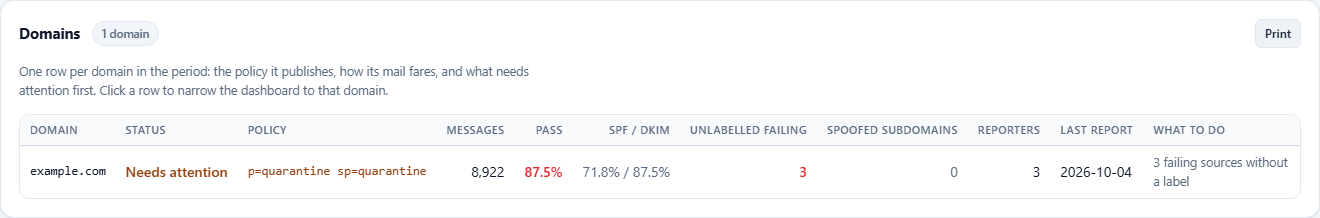
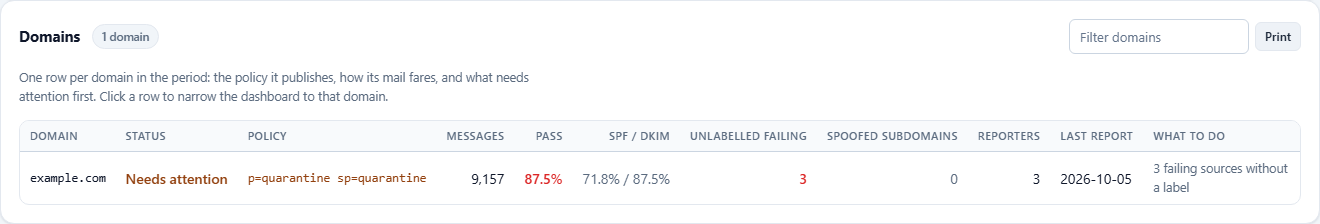
Add a search box to the Domains, Subdomains, Sources, Known senders, Reporting services and Reports panels
Each of these panels gets a search box in its heading. For the tables
whose rows are all in the page (domains, subdomains, sources, known
senders, reporters) it hides the rows that lack any of the typed words,
shows how many of the loaded rows match, re-applies itself after a
re-render and clears on Escape. Reports is paginated on the server, so
its box becomes a second search term (q2) that the filter ANDs with the
dashboard-wide one, matching reporter, domain, report id and the records'
addresses and hosts. Screenshots regenerated.

diff --git a/public/index.html b/public/index.html
@@ -354,6 +354,7 @@
         <h2>Domains</h2>
         <span id="scorecard-count" class="badge">0 domains</span>
         <div class="head-toggle">
+          <input type="search" id="scorecard-filter" class="panel-filter small" placeholder="Filter domains" autocomplete="off" spellcheck="false" aria-label="Filter domains" />
           <button type="button" class="secondary small print-btn" data-print="scorecard-panel" title="Print this panel, or save it as a PDF">Print</button>
         </div>
       </div>
@@ -428,6 +429,9 @@
       <div class="panel-head">
         <h2>Domains and subdomains</h2>
         <span id="subdomains-count" class="badge">0 domains</span>
+        <div class="head-toggle">
+          <input type="search" id="subdomains-filter" class="panel-filter small" placeholder="Filter domains" autocomplete="off" spellcheck="false" aria-label="Filter domains" />
+        </div>
       </div>
       <p class="bulk-hint">
         Mail grouped by the domain actually in the From header, not just the domain the report was
@@ -442,6 +446,7 @@
       <div class="panel-head">
         <h2>Sending sources</h2>
         <span id="ips-count" class="badge">0 sources</span>
+        <input type="search" id="ips-filter" class="panel-filter small" placeholder="Filter: IP, host, network, label, verdict" autocomplete="off" spellcheck="false" aria-label="Filter: IP, host, network, label, verdict" />
         <label class="check-inline head-toggle">
           <input type="checkbox" id="failing-only" checked /> Only sources with failures
         </label>
@@ -468,7 +473,10 @@
       <div class="panel-head">
         <h2>Known senders</h2>
         <span id="senders-count" class="badge">0 entries</span>
-        <button id="import-spf-btn" type="button" class="secondary small head-toggle writer-only">Import from SPF</button>
+        <div class="head-toggle">
+          <input type="search" id="senders-filter" class="panel-filter small" placeholder="Filter: pattern, label, kind" autocomplete="off" spellcheck="false" aria-label="Filter: pattern, label, kind" />
+          <button id="import-spf-btn" type="button" class="secondary small writer-only">Import from SPF</button>
+        </div>
       </div>
       <p class="bulk-hint">
         Tell the analyzer which sources are yours (your Microsoft 365 tenant, your on-premises
@@ -517,6 +525,9 @@
       <div class="panel-head">
         <h2>Reporting services</h2>
         <span id="reporters-count" class="badge">0 reporters</span>
+        <div class="head-toggle">
+          <input type="search" id="reporters-filter" class="panel-filter small" placeholder="Filter reporters" autocomplete="off" spellcheck="false" aria-label="Filter reporters" />
+        </div>
       </div>
       <p class="bulk-hint">
         Who sent the reports: the receiving mail systems that evaluated your domain's DMARC policy.
@@ -528,6 +539,7 @@
       <div class="panel-head">
         <h2>Reports</h2>
         <span id="reports-count" class="badge">0 reports</span>
+        <input type="search" id="reports-filter" class="panel-filter small" placeholder="Search: reporter, domain, report ID, IP, host" autocomplete="off" spellcheck="false" aria-label="Search: reporter, domain, report ID, IP, host" />
         <label class="head-toggle">Reporter
           <select id="reporter-filter" class="small">
             <option value="">All</option>

diff --git a/public/js/01-core.js b/public/js/01-core.js
@@ -189,6 +189,48 @@ async function api(path, options = {}) {
 
 const pad = (n) => String(n).padStart(2, "0");
 
+// --- filtering a panel's table -------------------------------------------------------
+//
+// Each table panel has a search box in its head. The rows are already in the page, so
+// filtering is a matter of hiding the ones whose text lacks any of the typed words;
+// a re-render (new period, sort, refresh) re-applies the current text. The Reports
+// panel is paginated on the server and uses the API instead (see 13-reports.js).
+
+function attachTableFilter(inputId, containerId) {
+  const input = document.getElementById(inputId);
+  const container = document.getElementById(containerId);
+  if (!input || !container) return;
+  const count = document.createElement("span");
+  count.className = "filter-count";
+  count.hidden = true;
+  input.insertAdjacentElement("afterend", count);
+  const apply = () => {
+    const words = input.value.trim().toLowerCase().split(/s+/).filter(Boolean);
+    const rows = [...container.querySelectorAll("tbody > tr")].filter((tr) => !tr.classList.contains("expansion-row"));
+    let shown = 0;
+    for (const tr of rows) {
+      const text = tr.textContent.toLowerCase();
+      const hit = words.every((w) => text.includes(w));
+      tr.hidden = !hit;
+      if (hit) shown += 1;
+      // A row's expanded detail follows it and should go wherever the row goes.
+      const next = tr.nextElementSibling;
+      if (next && next.classList.contains("expansion-row")) next.hidden = !hit;
+    }
+    input.classList.toggle("is-active", words.length > 0);
+    count.hidden = !words.length;
+    count.textContent = words.length ? `${shown} of ${rows.length}` : "";
+  };
+  input.addEventListener("input", apply);
+  input.addEventListener("keydown", (e) => {
+    if (e.key === "Escape") {
+      input.value = "";
+      apply();
+    }
+  });
+  new MutationObserver(() => { if (input.value.trim()) apply(); }).observe(container, { childList: true });
+}
+
 // --- printing one panel -----------------------------------------------------------
 //
 // "Print" on a panel marks it as the print target; the print stylesheet (dmarc.css)

diff --git a/test/e2e/dashboard.spec.js b/test/e2e/dashboard.spec.js
@@ -37,6 +37,25 @@ test("first run, dashboard, policy, analysis and settings", async ({ page }) => 
   await expect(page.locator("#ips-results tbody tr").first()).toBeVisible();
   await expect(page.locator("#ips-results")).toContainText("mail.spammer.test");
 
+  // Per-panel search boxes: client-side on the loaded rows, server-side for the paginated reports.
+  await expect(page.locator("#reporters-results tbody tr")).toHaveCount(2);
+  await page.fill("#reporters-filter", "google");
+  await expect(page.locator("#reporters-results tbody tr:visible")).toHaveCount(1);
+  await expect(page.locator("#reporters-filter + .filter-count")).toHaveText("1 of 2");
+  await page.locator("#reporters-filter").press("Escape");
+  await expect(page.locator("#reporters-results tbody tr:visible")).toHaveCount(2);
+  await page.fill("#ips-filter", "spammer.test");
+  await expect(page.locator("#ips-results tbody tr:visible")).toHaveCount(1);
+  await expect(page.locator("#ips-results tbody tr:visible").first()).toContainText("198.51.100.7");
+  await page.fill("#ips-filter", "");
+  await page.fill("#reports-filter", "Enterprise Outlook");
+  await expect(page.locator("#reports-count")).toContainText("5 reports");
+  await expect(page.locator("#reports-results tbody tr")).toHaveCount(5);
+  await page.fill("#reports-filter", "no-such-thing-anywhere");
+  await expect(page.locator("#reports-count")).toContainText("0 reports");
+  await page.locator("#reports-filter").press("Escape");
+  await expect(page.locator("#reports-count")).toContainText("10 reports");
+
   // Filtering by domain narrows every panel and lands in the page link.
   await page.selectOption("#domain-select", "example.com");
   await expect(page).toHaveURL(/domain=example\.com/);

diff --git a/public/js/13-reports.js b/public/js/13-reports.js
@@ -4,8 +4,30 @@
 
 // --- reports ---------------------------------------------------------------
 
+// The Reports table is paginated on the server, so its search box is a query parameter
+// (q2) rather than a filter over the rows on screen; it matches reporter, domain, report
+// id and the records' addresses, hosts and domains, on top of the dashboard-wide search.
+const reportsFilterInput = document.getElementById("reports-filter");
+let reportsFilterTimer = null;
+reportsFilterInput.addEventListener("input", () => {
+  clearTimeout(reportsFilterTimer);
+  reportsFilterTimer = setTimeout(() => {
+    reportsPage = 1;
+    loadReports().catch((error) => setStatus(error.message, true));
+  }, 250);
+});
+reportsFilterInput.addEventListener("keydown", (e) => {
+  if (e.key === "Escape" && reportsFilterInput.value) {
+    reportsFilterInput.value = "";
+    reportsPage = 1;
+    loadReports().catch((error) => setStatus(error.message, true));
+  }
+});
+
 async function loadReports() {
-  const data = await api(`/api/reports${filterQuery({ org: reporterFilter.value, page: reportsPage, pageSize: reportsPageSize })}`);
+  const q2 = reportsFilterInput.value.trim();
+  reportsFilterInput.classList.toggle("is-active", Boolean(q2));
+  const data = await api(`/api/reports${filterQuery({ org: reporterFilter.value, page: reportsPage, pageSize: reportsPageSize, q2: q2 || undefined })}`);
   const rows = data.rows || [];
   reportsCount.textContent = `${formatNumber(data.total)} report${data.total === 1 ? "" : "s"}`;
   const pages = Math.max(1, Math.ceil(data.total / data.pageSize));

diff --git a/public/dmarc.css b/public/dmarc.css
@@ -1565,3 +1565,35 @@ body.scratch-mode #mailbox-label {
 .enrol-passkey .auth-hint.is-ok {
   color: var(--success);
 }
+
+/* Per-panel search boxes in panel heads. */
+.panel-head .panel-filter {
+  margin-left: auto;
+  min-width: 180px;
+  max-width: 320px;
+  font-size: 13px;
+}
+.panel-head .head-toggle .panel-filter {
+  margin-left: 0;
+}
+.panel-filter.is-active {
+  border-color: var(--primary);
+}
+.filter-count {
+  font-size: 12px;
+  color: var(--text-muted);
+  white-space: nowrap;
+}
+
+@media print {
+  .panel-filter,
+  .filter-count {
+    display: none !important;
+  }
+}
+
+/* A search box followed by a toggle: keep them together on the right. */
+.panel-head .panel-filter + .head-toggle,
+.panel-head .filter-count + .head-toggle {
+  margin-left: 0;
+}

diff --git a/server.js b/server.js
@@ -201,9 +201,11 @@ function parseFilter(query = {}) {
   }
   const domain = query.domain ? String(query.domain).trim().toLowerCase() : null;
   const q = query.q ? String(query.q).trim().slice(0, 200) : null;
+  // A panel's own search box, applied on top of the dashboard-wide one.
+  const q2 = query.q2 ? String(query.q2).trim().slice(0, 200) : null;
   const excludeForwards = String(query.hideForwards || "") === "1";
   const mailbox = query.mailbox ? String(query.mailbox).trim().slice(0, 40) : null;
-  return { from, to, domain, q: q || null, excludeForwards, mailbox: mailbox || null };
+  return { from, to, domain, q: q || null, excludeForwards, mailbox: mailbox || null, ...(q2 ? { q2 } : {}) };
 }
 
 function positiveInt(value, fallback) {

diff --git a/public/js/24-init.js b/public/js/24-init.js
@@ -2,6 +2,11 @@
 // One of the classic scripts index.html loads in order; they share one global scope,
 // so a function or const defined here is visible to the files that follow.
 
+// Search boxes on the table panels whose rows are all in the page.
+for (const [inputId, containerId] of [["scorecard-filter", "scorecard-results"], ["subdomains-filter", "subdomains-results"], ["ips-filter", "ips-results"], ["senders-filter", "senders-results"], ["reporters-filter", "reporters-results"]]) {
+  attachTableFilter(inputId, containerId);
+}
+
 (async function init() {
   applyTheme(localStorage.getItem("dmarc-theme") || "light");
   hideForwards.checked = localStorage.getItem("dmarc-hide-forwards") === "1";

diff --git a/db.js b/db.js
@@ -299,8 +299,10 @@ function buildFilter(filter = {}, { r = "r", x = null } = {}) {
     params.push(String(filter.mailbox));
   }
 
-  const q = filter.q && String(filter.q).trim();
-  if (q) {
+  // Two independent search terms: the dashboard-wide one (q) and a panel's own (q2); both must match.
+  for (const term of [filter.q, filter.q2]) {
+    const q = term && String(term).trim();
+    if (!q) continue;
     const like = likePattern(q);
     const reportCols = [`${r}.org_name`, `${r}.domain`, `${r}.report_id`];
     const recordMatch = (alias) => [

diff --git a/README.md b/README.md
@@ -118,6 +118,14 @@ tab title.
 **Reporting services**: which receivers (Google, Microsoft, Yahoo, ...) sent reports, how
 many, and the failure rate each of them saw.
 
+**Searching within a panel**: Domains, Domains and subdomains, Sending sources, Known
+senders, Reporting services and Reports each have a search box in their heading. Type
+one or more words and only rows containing all of them stay (an IP, a host, a network
+name, a label, a verdict); a count shows how many of the loaded rows match, and Escape
+clears it. The Reports box searches the server, since that table is paginated, and
+matches reporter, domain, report ID and the addresses and hosts in the records. These
+boxes narrow one panel; the Search field at the top of the dashboard narrows everything.
+
 **TLS reports**: SMTP TLS reports (RFC 8460) arrive in the same mailbox when the domain
 publishes a TLS-RPT record, and are parsed from their JSON (plain or gzipped). The panel,
 shown once any exist, gives sessions succeeded and failed, the policy mode senders saw
